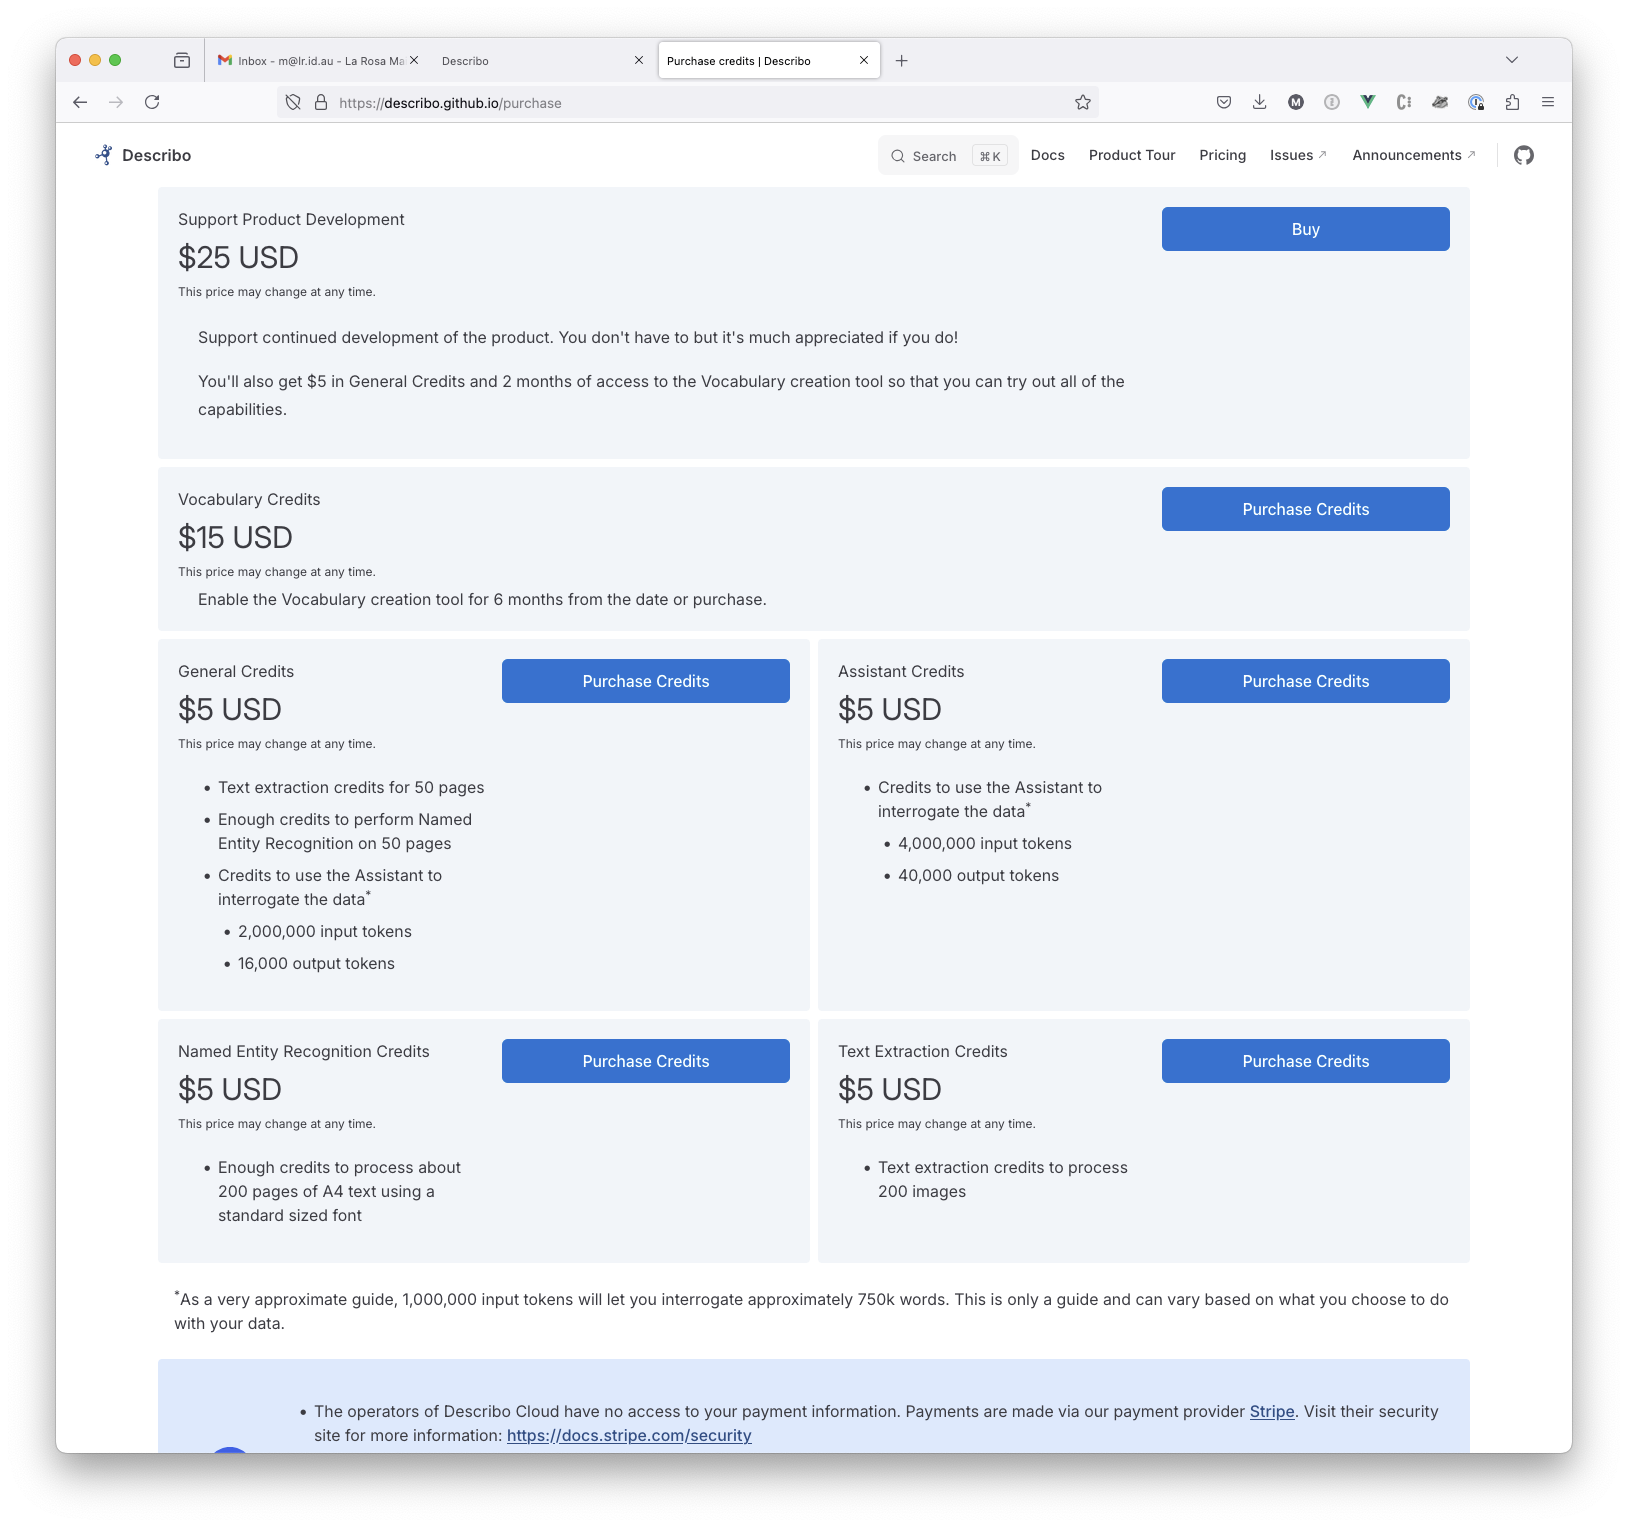
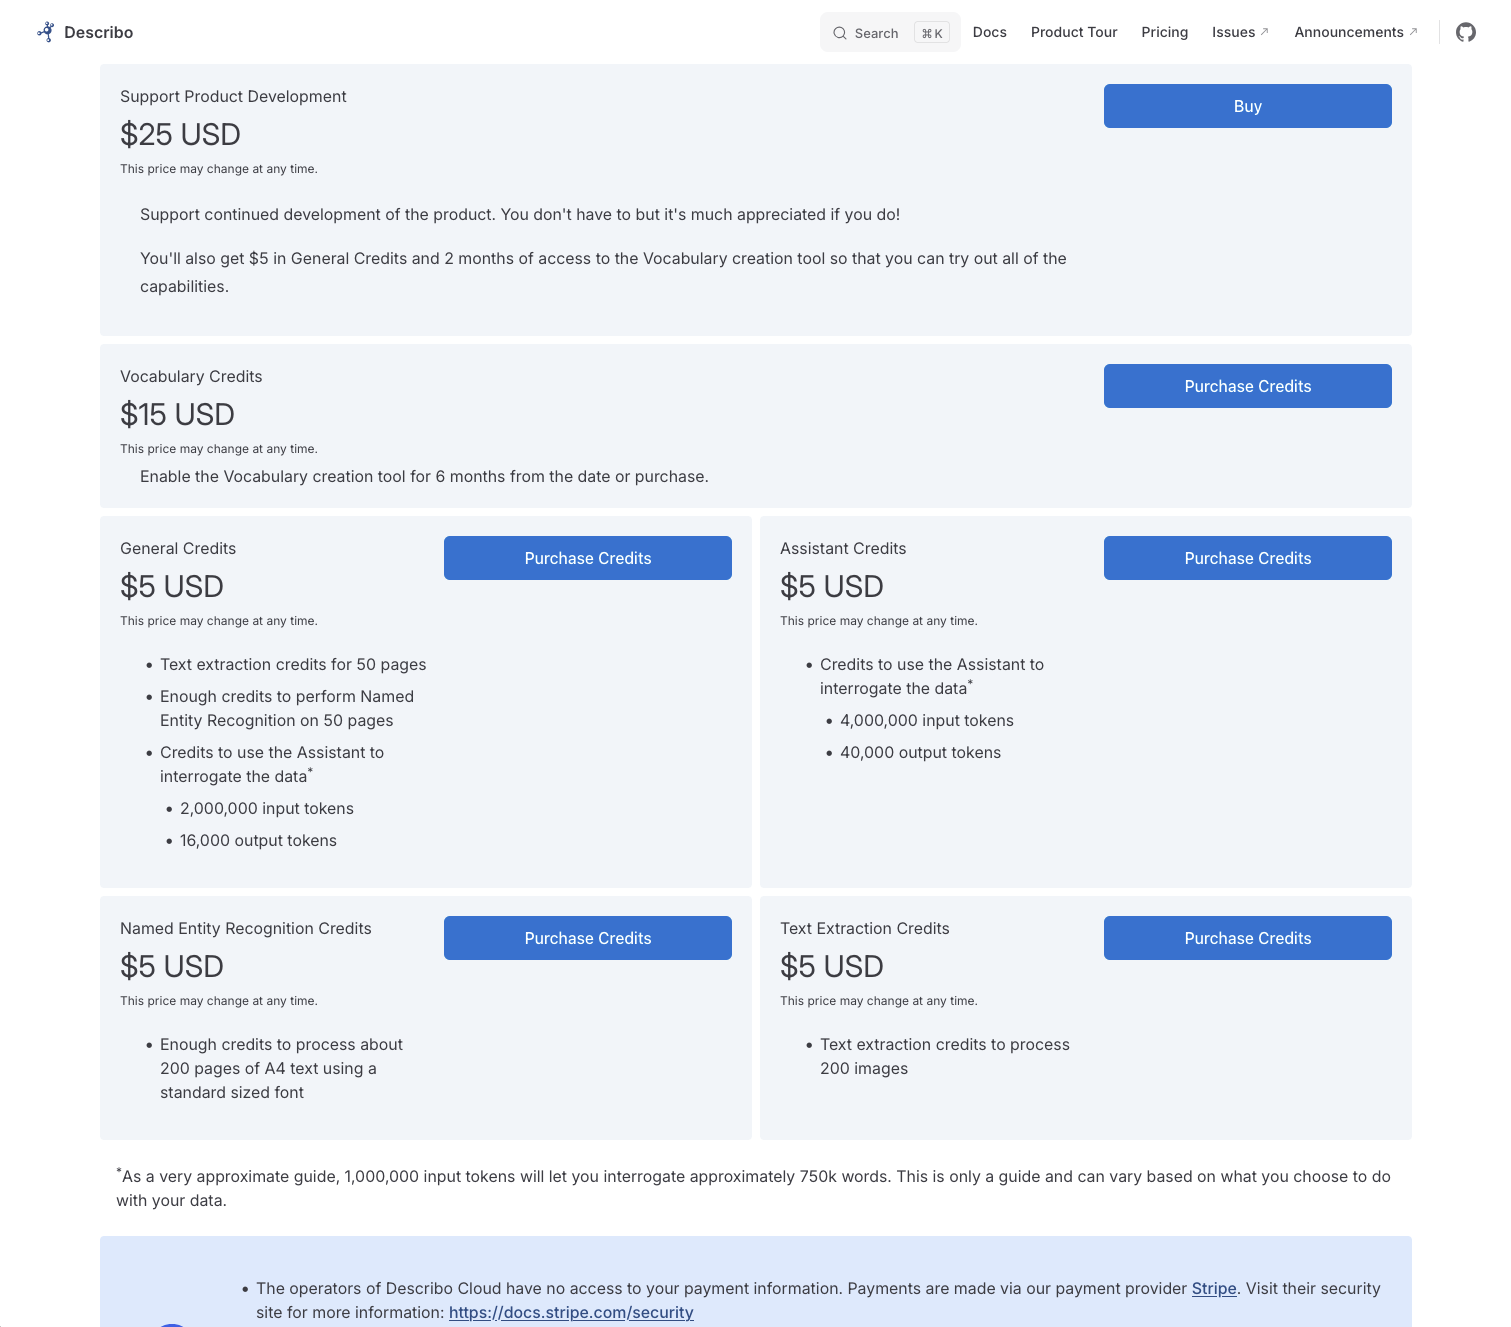
update images and image styling

diff --git a/src/vue-components/Image.vue b/src/vue-components/Image.vue
@@ -1,5 +1,5 @@
 <template>
-    <div class="flex flex-col items-center">
+    <div class="flex flex-col items-center drop-shadow-2xl">
         <div v-if="enableZoom">
             <img :src="src" data-zoomable />
             <TipComponent>Click the image for a closer look!</TipComponent>
